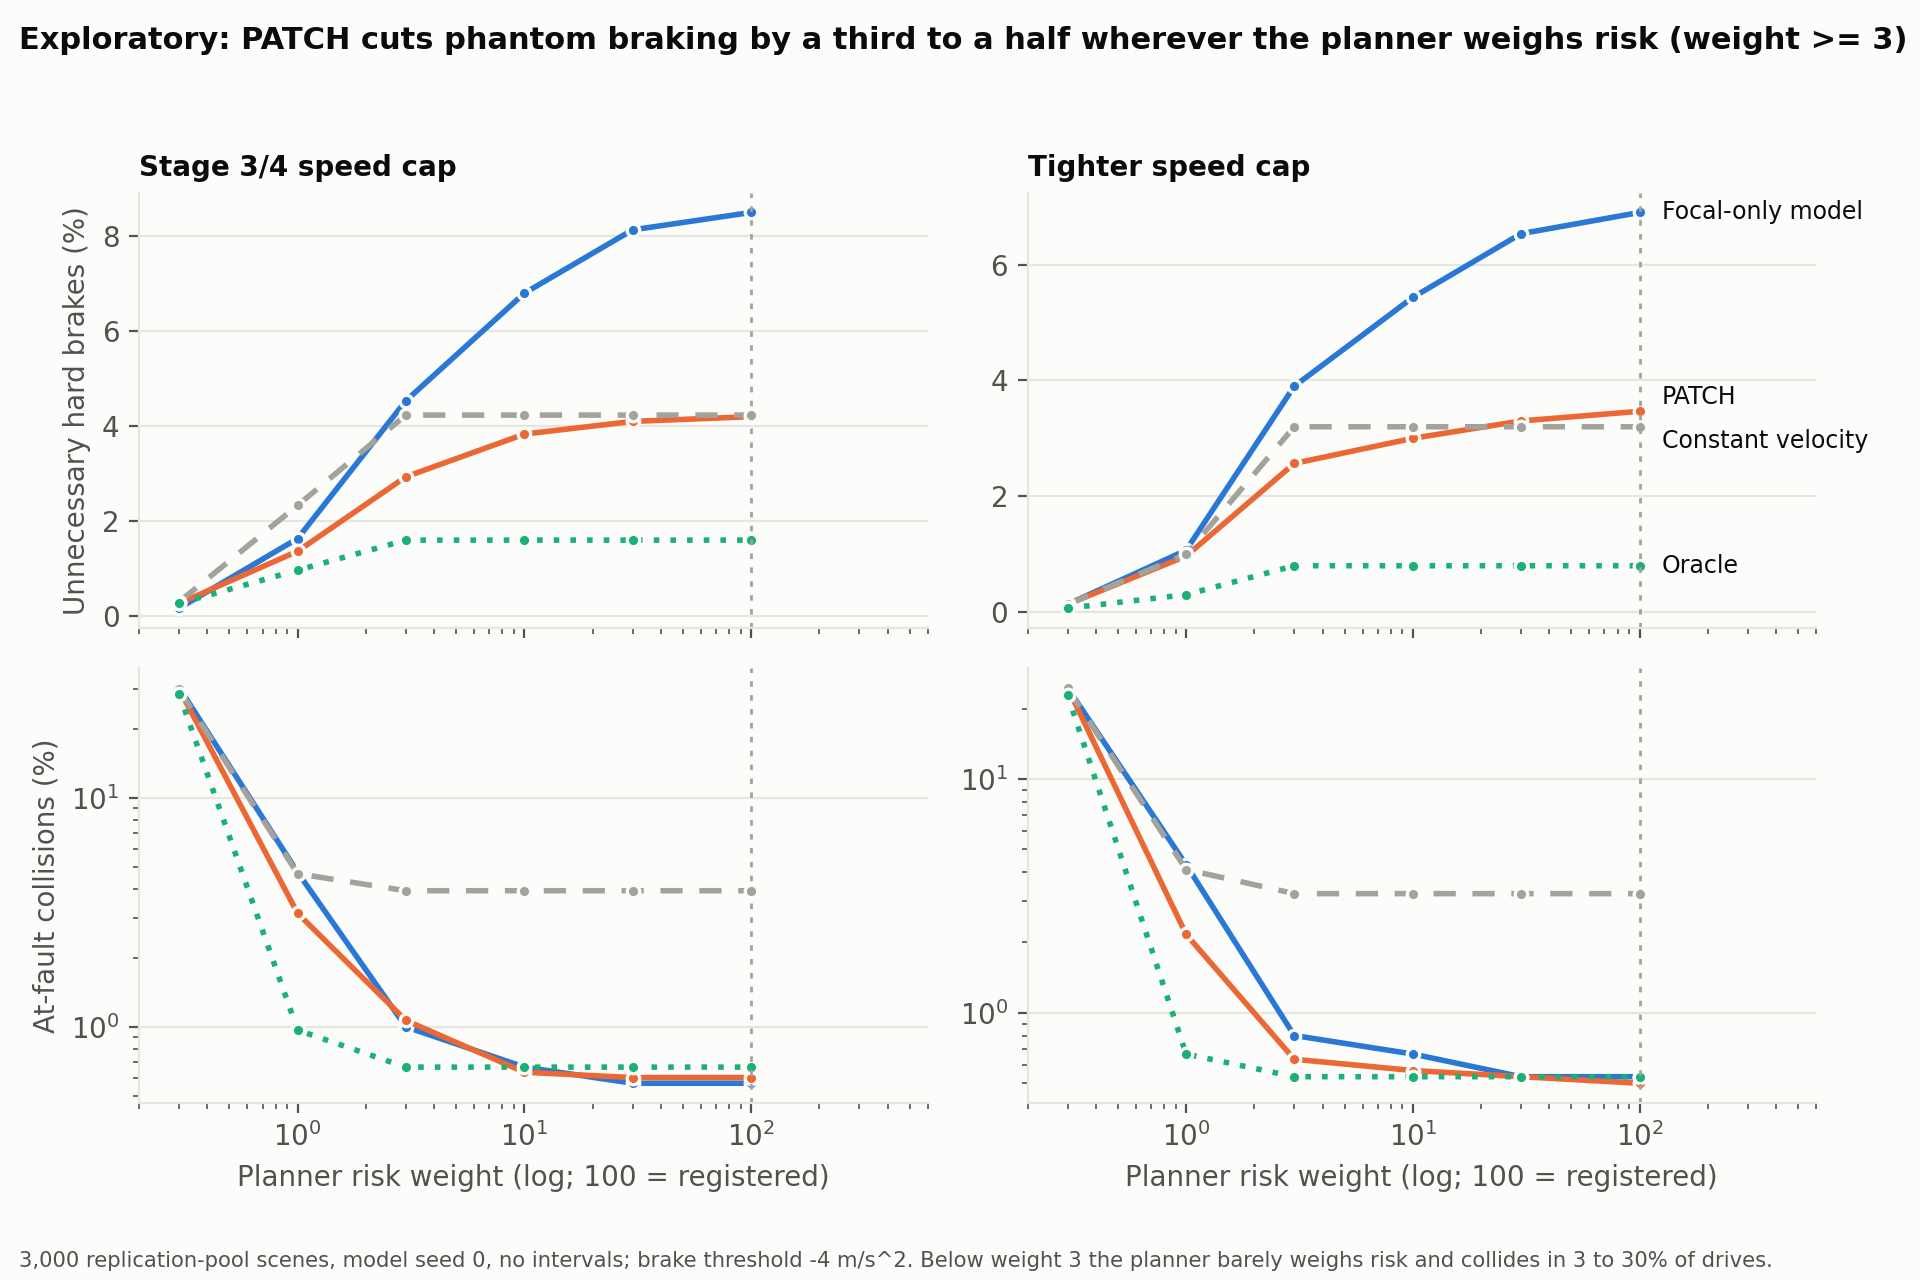
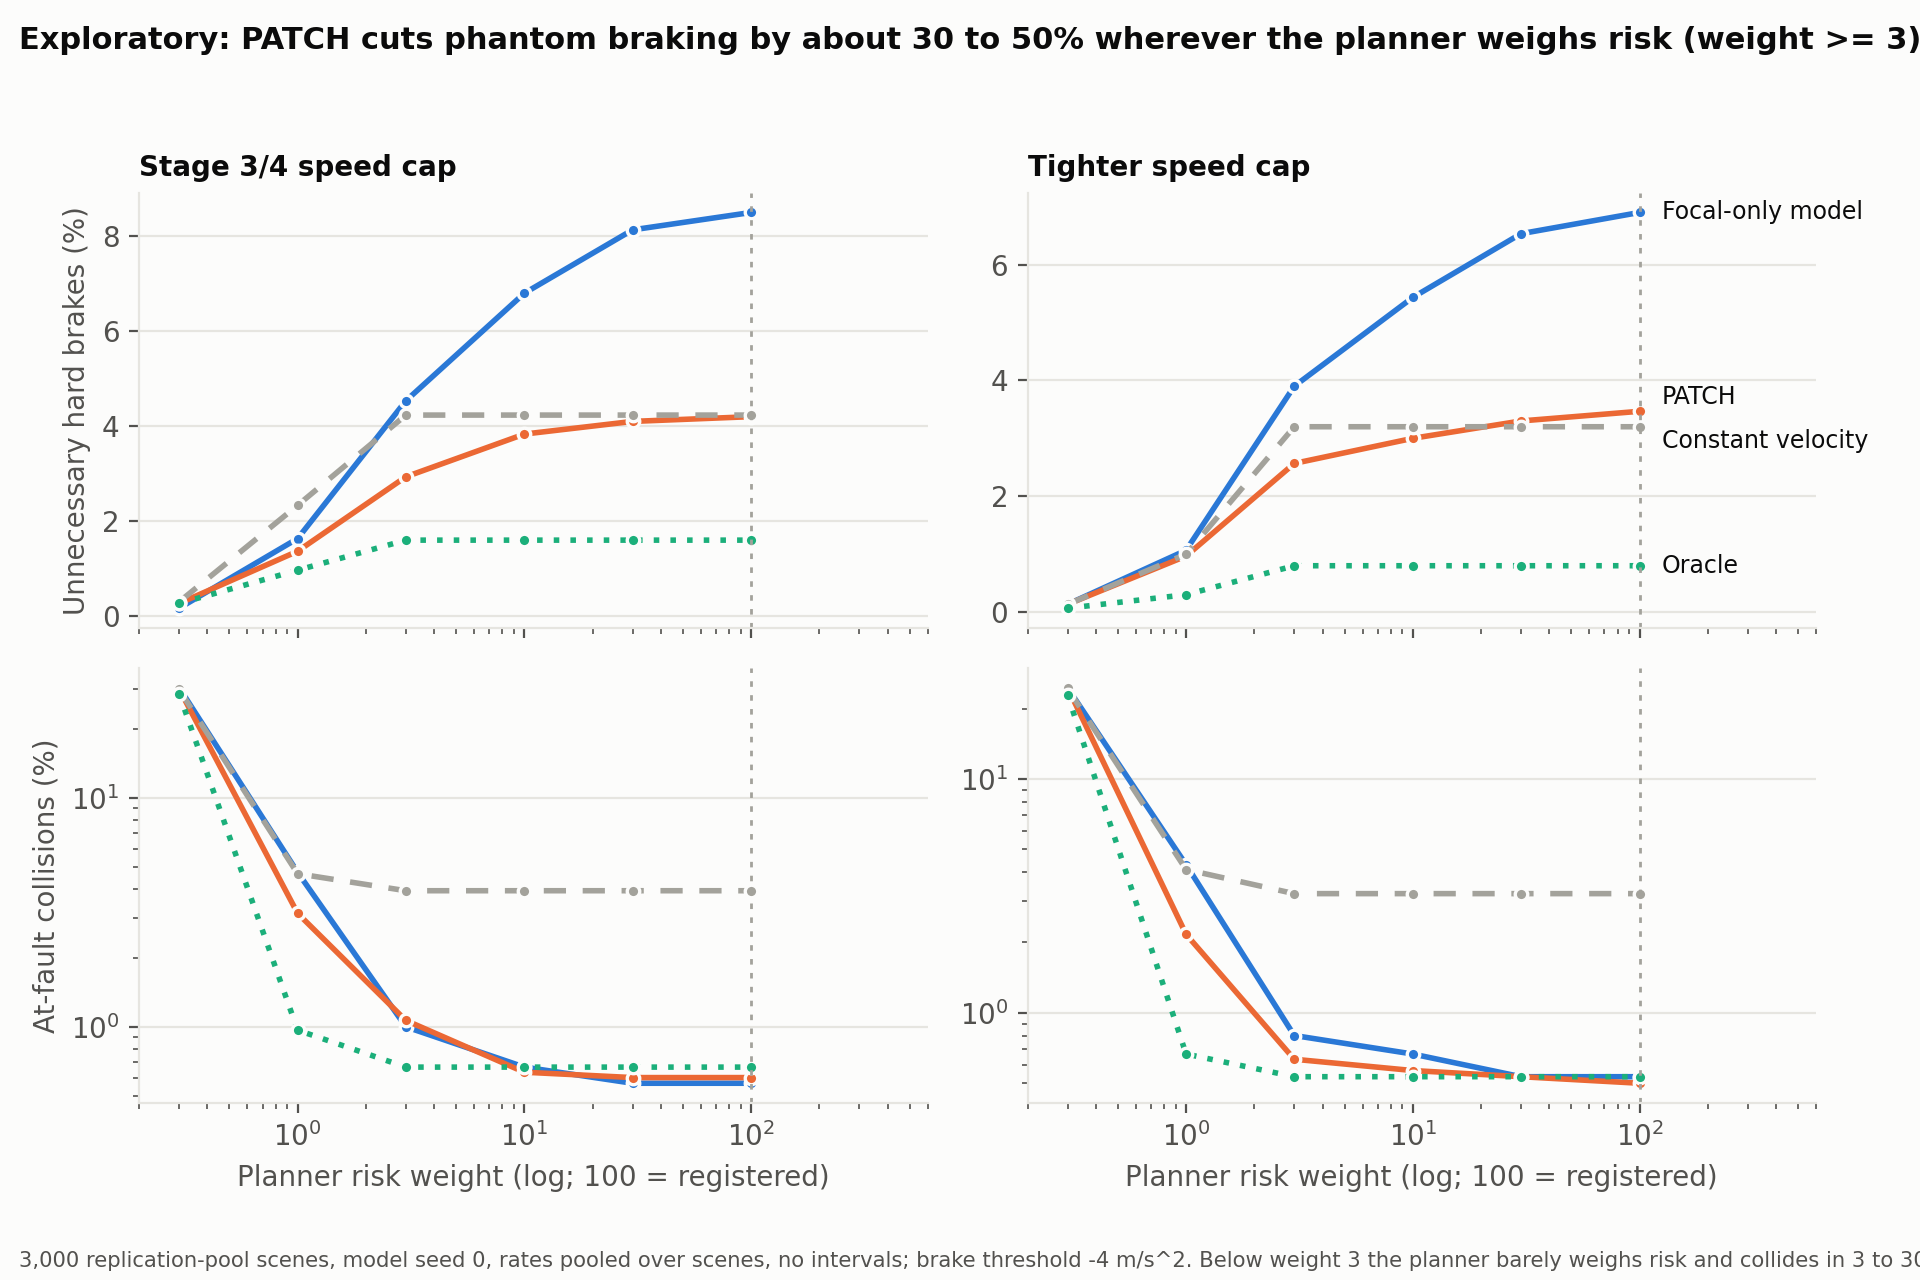
Correct claims found by the fourth review (partial run)
- Exploratory spread result: 0.40 came from seed-averaged spread (an ensemble);
  each model scored on its own errors gives 0.333, equal to ensemble disagreement
- Sweep: reductions are 29 to 51 percent pooled over scenes, not a third to a
  half; city-equal estimates stated and noisier; figure labelled as pooled
- Mechanism audit: uses the chosen acceleration and the planner look-ahead
  test (looser than the scored rule); blockers are association, not proof
- Limitation: H3 bootstrap ignores cross-fold covariance (verdict unchanged)

Changed region(s): [[0.4375, 0.0, 1.0, 0.0625], [0.25, 0.9688, 1.0, 1.0]]

diff --git a/scripts/plot_results.py b/scripts/plot_results.py
@@ -316,9 +316,9 @@ def fig_sensitivity(sweep: str, out: str) -> None:
             if row == 1:
                 ax.set_xlabel("Planner risk weight (log; 100 = registered)")
     axes[0, 1].set_xlim(0.2, 600)
-    fig.suptitle("Exploratory: PATCH cuts phantom braking by a third to a half wherever the planner weighs risk (weight >= 3)",
+    fig.suptitle("Exploratory: PATCH cuts phantom braking by about 30 to 50% wherever the planner weighs risk (weight >= 3)",
                  x=0.01, ha="left", fontsize=11, fontweight="bold")
-    fig.text(0.01, 0.01, "3,000 replication-pool scenes, model seed 0, no intervals; brake threshold -4 m/s^2. Below weight 3 the "
+    fig.text(0.01, 0.01, "3,000 replication-pool scenes, model seed 0, rates pooled over scenes, no intervals; brake threshold -4 m/s^2. Below weight 3 the "
              "planner barely weighs risk and collides in 3 to 30% of drives.", color=INK2, fontsize=7.6)
     fig.tight_layout(rect=(0, 0.04, 1, 0.95))
     fig.savefig(f"{out}/sensitivity_sweep.png", dpi=200)

diff --git a/README.md b/README.md
@@ -165,7 +165,7 @@ The fold-consistency p-values sit at the 6-fold floor and are descriptive only; 
 ### Exploratory findings (not registered, labelled permanently)
 
 - **Knowing it is wrong is not knowing it is somewhere new.** No uncertainty signal separates unseen-city scenarios from seen-city ones (mean AUROC 0.505 to 0.518 across the four signals, chance is 0.5), even though ensemble disagreement ranks that city's errors with no detectable difference from the seen cities (H3; not a proof of equivalence).
-- **A single model's mode spread beats the three-seed ensemble** at catching misses in the unseen city (capture fraction 0.40 vs 0.33), at a third of the inference cost. Mode entropy (0.24) and Mahalanobis distance of the scene embedding (0.17) are weaker.
+- **Mode spread matches ensemble disagreement, not better.** Scoring each model's own mode spread against its own errors catches the same share of misses in the unseen city as ensemble disagreement (capture fraction 0.333 vs 0.333), at a third of the inference cost. (An earlier version of this line reported 0.40; that figure averaged the spread across the three seeds, which is itself an ensemble, and was corrected after a review.) Mode entropy (0.24) and Mahalanobis distance of the scene embedding (0.17) are weaker.
 - **The learned predictor phantom-brakes.** It collides less than constant velocity (1.3% vs 2.1%) but fails more overall (6.7% vs 4.3%), because the registered planner brakes for any predicted mode that crosses its path, even at a few percent probability. The unseen-city predictor's extra failures are extra hard brakes (6.2% vs 6.0%), not collisions (1.2% vs 1.3%). The planner was deliberately not retuned after this was first seen on development data.
 
 ## Follow-up studies: why the planner phantom-brakes
@@ -236,7 +236,7 @@ Controls: the stand-still forecast collides 5.2x as often as the model; the repl
 
 ### Exploratory: where the phantom brakes come from, decision by decision
 
-Not registered; run after Stage 4 on 1,500 of the replication-pool scenes with the focal-only model and the registered planner ([script](src/cityshift/mechanism.py), [numbers](reports/mechanism/mechanism_audit.json)). At each of the 166 replans where the planner chose a hard brake instead of the plan it would pick with no risk term, it records the agents whose predicted risk ruled that plan out, and checks each against its true logged future.
+Not registered; run after Stage 4 on 1,500 of the replication-pool scenes with the focal-only model and the registered planner ([script](src/cityshift/mechanism.py), [numbers](reports/mechanism/mechanism_audit.json)). At each of the 166 replans where the planner *chose* a hard acceleration (-4 m/s^2 or harder; the registered outcome instead uses the realised speed change) instead of the plan it would pick with no risk term, it lists the agents that carry predicted risk on that rejected plan, and checks each against its true logged future with the planner's own look-ahead test (4 s, 0.5 m margin). That test also counts near misses, so it is looser than the scored collision rule and the true-conflict shares below are upper estimates.
 
 | At a phantom-brake decision | Share |
 |---|---|
@@ -247,7 +247,7 @@ Not registered; run after Stage 4 on 1,500 of the replication-pool scenes with t
 | Brake decisions with any truly conflicting blocker | 20% |
 | Brakes that PATCH removes at that same replan | 66% (96% when every blocker is stopped) |
 
-So the braking the fix removes is caused, at the decision itself, by probability the model puts on stopped agents moving, and those agents almost never actually get in the way. Agents with partial futures are not what drives it.
+So at these decisions, most of the risk that rules out the faster plan comes from probability the model puts on stopped agents moving, and those agents rarely conflict with that plan in their true futures. This is association at the decision, not proof that each listed agent caused the brake (an agent can carry risk without being decisive); the PATCH counterfactual, which removes 66% of these brakes, is the stronger evidence. Agents with partial futures are not what drives it.
 
 **Skipping inference is exactly equivalent** ([script](scripts/parity_patch_skip.py), [result](reports/serving/parity_patch_skip.json)): on 500 development scenes, PATCH with stopped agents skipping the model chose the same acceleration as PATCH at all 3,000 replans and produced identical outcomes in all 500 drives, while sending 63% fewer agents through the model.
 
@@ -257,14 +257,14 @@ Not registered; run after Stage 4 on 3,000 of the replication-pool scenes, model
 
 ![Planner sensitivity sweep](docs/figures/sensitivity_sweep.png)
 
-| Risk weight | PATCH's pooled cut in phantom braking (Stage 3/4 cap, tighter cap) | Collisions, focal-only vs PATCH |
+| Risk weight | PATCH's cut in phantom braking at -4 m/s^2, pooled over scenes (Stage 3/4 cap, tighter cap) | Collisions, focal-only vs PATCH |
 |---|---|---|
 | 0.3 and 1 | -60% to +16% (noise; the planner barely weighs risk and collides in 3 to 30% of drives) | similar |
 | 3 | 35%, 34% | 0.6 to 1.1%, within 0.2 pp |
 | 10 | 44%, 45% | about 0.6%, within 0.1 pp |
 | 30 and 100 | 50 to 51%, 50% | 0.5 to 0.6%, within 0.1 pp |
 
-Wherever the planner actually weighs risk, PATCH cuts phantom braking by a third to a half, under both speed caps and all three brake definitions (the cut is smallest at -5 m/s^2, where events are rare), with collisions essentially unchanged. At weights of 30 and above it brakes about as rarely as constant velocity while colliding 6 to 7x less (0.5 to 0.6% vs 3.2 to 3.9%). The sweep also quantifies how privileged the harness is: at the registered settings 81% of focal-only drives and 94% of PATCH drives end past the end of the human's logged route, on its straight extension.
+Wherever the planner actually weighs risk (weight 3 and up), PATCH cuts phantom braking by about 30 to 50% pooled over scenes (range 29% to 51% across both speed caps and all three brake definitions), with collisions essentially unchanged. City-equal averages, which the registered analyses use, are noisier here because this subset has few events per city: 24% to 50% at -4 m/s^2, and anywhere from 2% to 45% at -5 m/s^2, where events are rarest. At weights of 30 and above PATCH brakes about as rarely as constant velocity while colliding 6 to 7x less (0.5 to 0.6% vs 3.2 to 3.9%). The sweep also quantifies how privileged the harness is: at the registered settings 81% of focal-only drives and 94% of PATCH drives end past the end of the human's logged route, on its straight extension.
 
 ## What broke along the way
 
@@ -287,6 +287,7 @@ Every one of these was found by a diagnostic before any change was made, and eac
 - **Stage 1 and Stage 2 score different forecasts.** Stage 1 measures the focal agent; the planner consumes forecasts of up to 16 surrounding agents at six replan times. Stage 3a scores those agents at one handoff snapshot (t=49) only, not at every replan, so the accuracy of the forecasts at later replans (with the simulated car) is not reported.
 - **At-fault attribution:** Stage 2 counts a collision as at fault when the other agent's centre is ahead of the ego's centre, which can miss some side-swipes with long vehicles. Stages 3 and 4 use the contact point instead (the centroid of the first overlap, in the front half of the ego).
 - **The closed loop is a privileged sensitivity harness, not a driving simulator.** Other agents replay their logs and do not react; the planner controls speed only, along the human's logged route (extended straight past its end), with no traffic-light or stop-sign awareness. The ego therefore drives further than the human: 1.5 to 1.7x in Stage 2, and in Stage 4 1.83x with the focal-only model and 2.14x with PATCH. There is no perception noise, and the window is 6 s. These limits apply equally to every arm, which is what the paired comparisons need, but they bound what the absolute collision and braking rates mean; the exploratory planner sensitivity sweep above checks how far the PATCH result depends on the planner's settings (81 to 94% of rollouts at the registered settings end past the end of the logged route).
+- **H3's interval ignores cross-fold covariance.** The in-distribution scenario sets of the six folds overlap, but the registered bootstrap resamples each fold independently, so the H3 interval is likely too narrow. H3's verdict (no detectable difference) would not change with a wider interval.
 - **Confidence intervals are conditional on these six cities and these trained checkpoints.** The bootstrap resamples scenarios, so it does not capture the variance from drawing new cities or from retraining the models.
 - **One dataset, six US cities.** No left-hand traffic and no weather split.
 - **The model is small.** City effects could differ at leaderboard scale.
